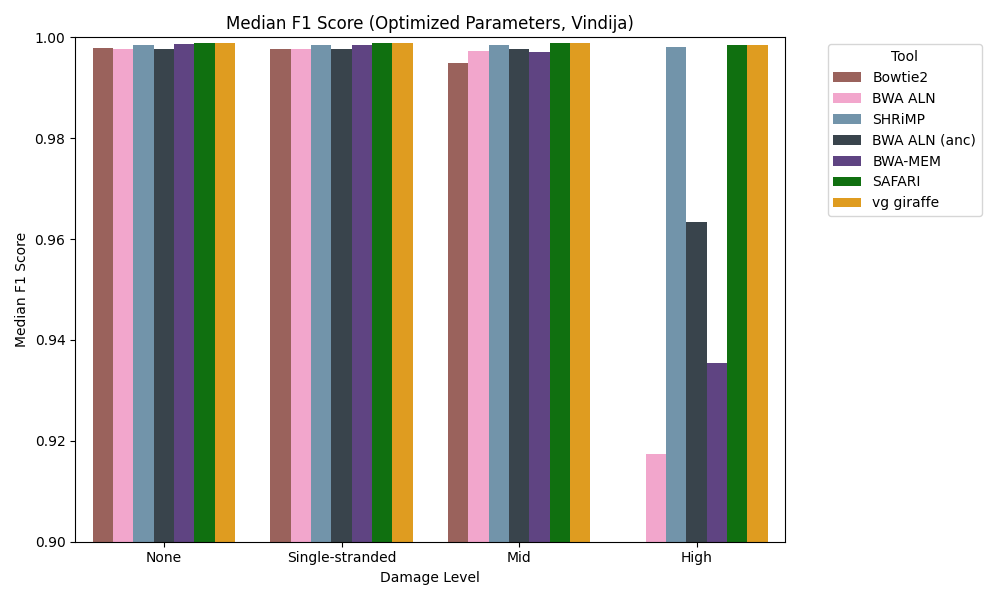
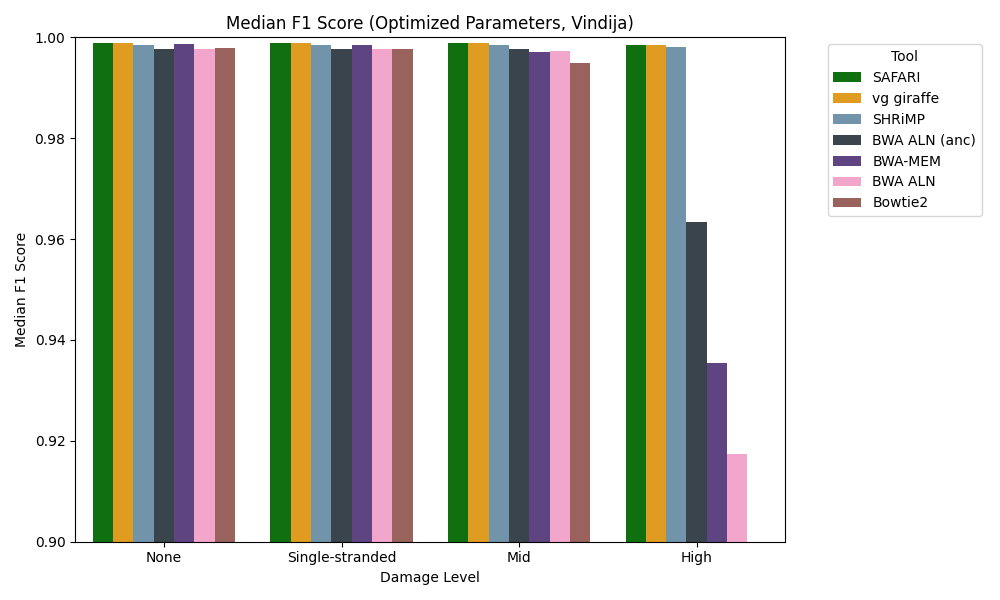
Update

diff --git a/linear_experiment/human_mito/stat_results/plot_F1_optimized_all.py b/linear_experiment/human_mito/stat_results/plot_F1_optimized_all.py
@@ -4,16 +4,15 @@ import seaborn as sns
 import sys
 import numpy as np
 
+def optimize_k_w(group):
+    optimal_row = group.loc[group['sensitivity'].idxmax()]
+    # Print the selected values of w and k
+    print(f"Selected w: {optimal_row['k']}, k: {optimal_row['w']}")
+    return optimal_row[['k', 'w']]
+
 def main():
     file_path = sys.argv[1]
     data = pd.read_csv(file_path)
-    #data=data[data['damage_level']=='High']
-
-    def optimize_k_w(group):
-        optimal_row = group.loc[group['sensitivity'].idxmax()]
-        # Print the selected values of w and k
-        print(f"Selected w: {optimal_row['k']}, k: {optimal_row['w']}")
-        return optimal_row[['k', 'w']]
 
     # Find the optimal k and w for each tool
     optimal_params = data.groupby('tool').apply(optimize_k_w).reset_index()
@@ -28,12 +27,14 @@ def main():
     damage_order = ['None', 'Single-stranded', 'Mid', 'High']
     median_f1_scores['damage_level'] = pd.Categorical(median_f1_scores['damage_level'], categories=damage_order, ordered=True)
 
+    # Extract tool order from the 'High' damage level
+    high_damage_order = median_f1_scores[median_f1_scores['damage_level'] == 'High'].sort_values('f1', ascending=False)['tool'].tolist()
+
+    # Ensure the tool column is Categorical with the order determined from the 'High' damage level
+    median_f1_scores['tool'] = pd.Categorical(median_f1_scores['tool'], categories=high_damage_order, ordered=True)
+
     # Sort the DataFrame by the 'damage_level' to ensure the plot follows the custom order
     median_f1_scores.sort_values('damage_level', inplace=True)
-
-    median_f1_scores['log_f1'] = np.log(median_f1_scores['f1'])
-
-    print(median_f1_scores)
 
     corrected_palette = {
     'vg giraffe': 'orange', 
@@ -44,7 +45,7 @@ def main():
     'BWA ALN': '#ff99cc',  # Soft Magenta
     'BWA ALN (anc)': '#36454f',  # Charcoal Grey
     'Bowtie2': '#a45a52'  # Rust
-                         }
+    }
 
     # Create a barplot
     plt.figure(figsize=(10, 6))
@@ -53,7 +54,7 @@ def main():
     plt.xlabel('Damage Level')
     plt.ylabel('Median F1 Score')
     plt.legend(title='Tool', bbox_to_anchor=(1.05, 1), loc='upper left')
-    plt.ylim(0.90, 1)  # You might need to adjust this based on your log scale needs
+    plt.ylim(0.90, 1)  # Adjust based on your needs
     plt.tight_layout()
 
     plt.savefig(sys.argv[2])
